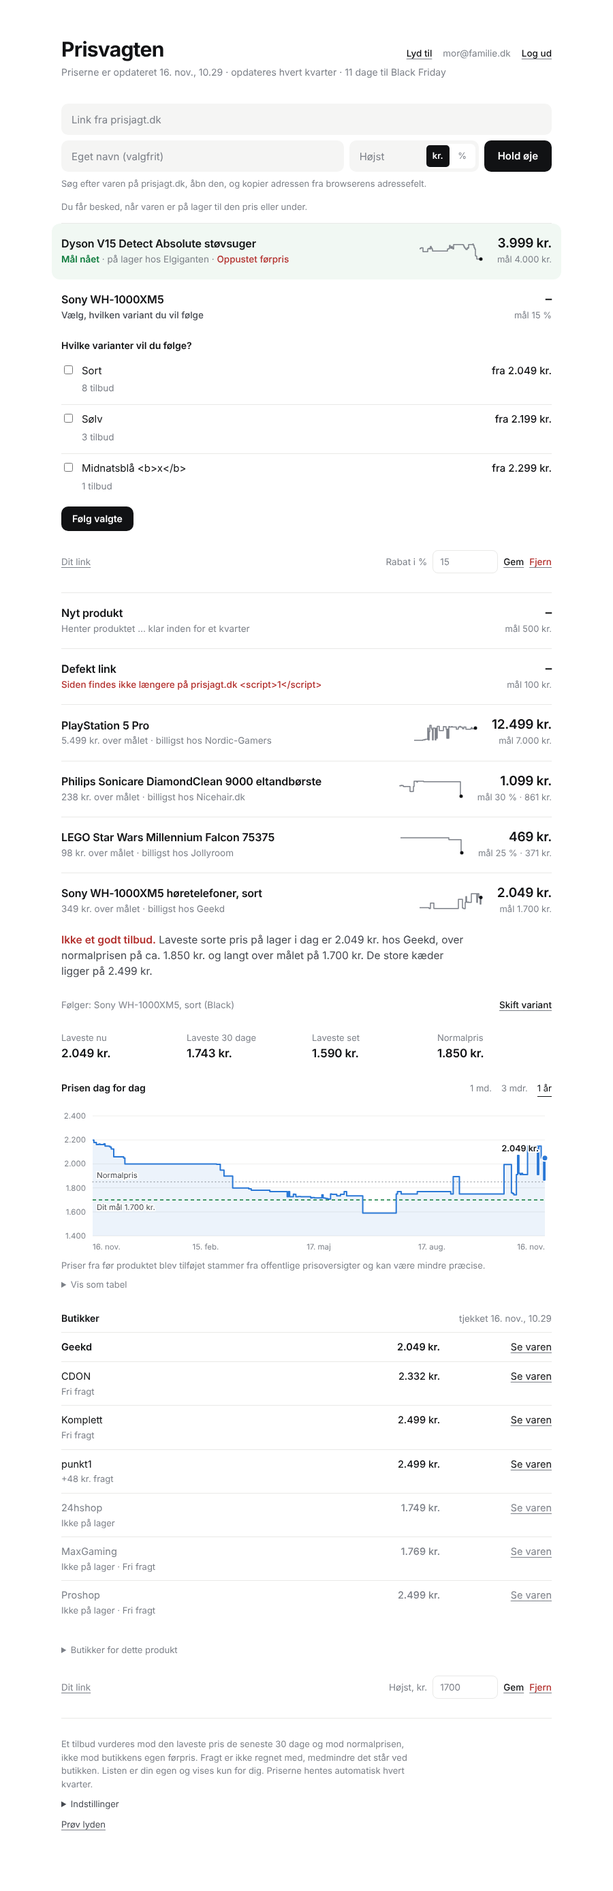
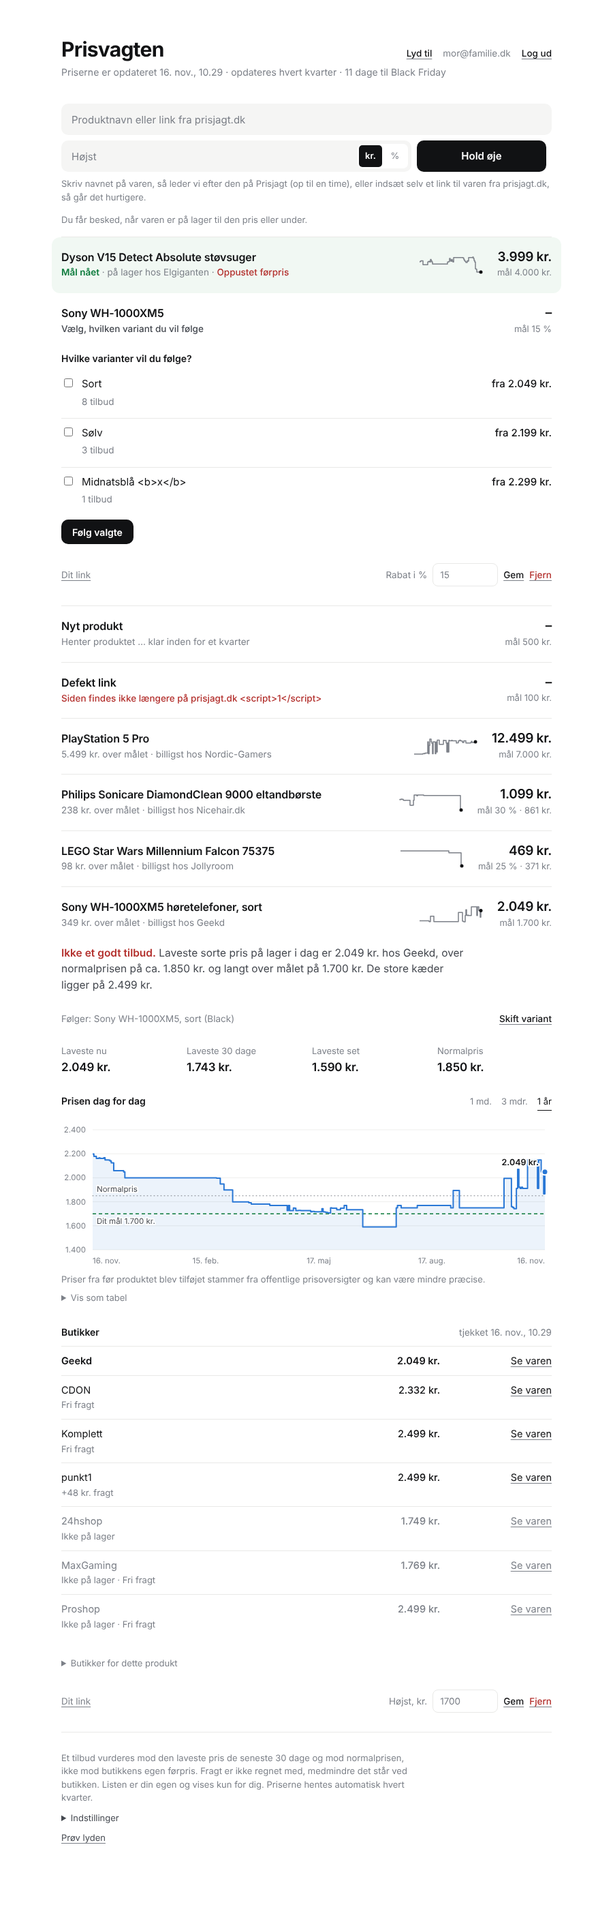
Add products by name: resolver functions, name-only rows, job skip
Database: products may be added without source_url (name must not be blank).
resolver_secret + resolver_list/set/fail (SECURITY DEFINER, token in the
x-resolver-token request header) let an external assistant, holding only the
publishable key, find and write back prisjagt.dk links. A final select shows
the token once.

Job: tests confirm and guard that name-only products are never fetched or
retried.

Web: one field for name or link; name-only rows show a Prisjagt search link
and a paste-link form. Tests extended; empty-config test now serves its own
config.js.

Claude-Session: https://claude.ai/code/session_01RPyEG2VBTuvCsPG9JbAUsy

diff --git a/web/test.js b/web/test.js
@@ -52,7 +52,11 @@ const FAKE = `
           rows.push(r); return resolve({ data: null, error: null });
         }
         if (q.op === "update") {
-          rows.filter(match).forEach(function (r) { Object.keys(q.payload).forEach(function (k) { if (JOB.indexOf(k) < 0) r[k] = clone(q.payload[k]); }); });
+          rows.filter(match).forEach(function (r) {
+            var newLink = "source_url" in q.payload && q.payload.source_url !== r.source_url;
+            Object.keys(q.payload).forEach(function (k) { if (JOB.indexOf(k) < 0) r[k] = clone(q.payload[k]); });
+            if (newLink) { r.status = "pending"; r.check_note = null; }   // what products_guard does on a new link
+          });
           return resolve({ data: null, error: null });
         }
         if (q.op === "upsert") {
@@ -108,7 +112,8 @@ async function open(opts = {}) {
   page.on("console", m => { if (m.type() === "error" && !/Failed to load resource/.test(m.text())) pageErrors.push(opts.label + " console: " + m.text()); });
   await page.route(/cdn\.jsdelivr\.net/, r => r.fulfill({ contentType: "text/javascript", body: "/* test: client is injected */" }));
   await page.route(/fonts\.(googleapis|gstatic)\.com/, r => r.fulfill({ contentType: "text/css", body: "" }));
-  if (opts.config !== false) await page.route(/\/config\.js$/, r => r.fulfill({ contentType: "text/javascript", body: 'window.PV_CONFIG={supabaseUrl:"https://x.supabase.test",supabaseAnonKey:"anon"};' }));
+  // config.js in the repo holds the real project's values, so both cases are served from the test, never from the file.
+  await page.route(/\/config\.js$/, r => r.fulfill({ contentType: "text/javascript", body: opts.config === false ? "window.PV_CONFIG={supabaseUrl:\"\",supabaseAnonKey:\"\"};" : 'window.PV_CONFIG={supabaseUrl:"https://x.supabase.test",supabaseAnonKey:"anon"};' }));
   const init = { session: opts.session === false ? null : { user: { id: "u1", email: "mor@familie.dk" } }, products: opts.products || [], profiles: opts.profiles || [] };
   await page.addInitScript("window.__INIT = " + JSON.stringify(init) + ";");
   if (opts.fake !== false) await page.addInitScript(FAKE);
@@ -232,14 +237,14 @@ let base;
   {
     const p = await open({ products: [], label: "add" });
     await p.waitForSelector("#addForm:not([hidden])");
-    check("add: empty list text and how-to line", /Ingen produkter endnu/.test(await p.textContent("#list")) && /Søg efter varen på prisjagt\.dk/.test(await p.textContent("#fHelp")));
-    for (const bad of ["", "tekst", "http://prisjagt.dk/p/1", "https://example.com/prisjagt.dk/p/1", "https://prisjagt.dk.evil.com/p/1", "https://prisjagt.dk/", "javascript:alert(1)"]) {
-      await p.fill("#fUrl", bad); await p.fill("#fVal", "1000"); await p.evaluate(() => document.getElementById("addForm").requestSubmit());
+    check("add: empty list text and how-to line", /Ingen produkter endnu/.test(await p.textContent("#list")) && /Skriv navnet på varen/.test(await p.textContent("#fHelp")) && /indsæt selv et link/.test(await p.textContent("#fHelp")) && (await p.getAttribute("#fMain", "placeholder")) === "Produktnavn eller link fra prisjagt.dk" && (await p.locator("#fName").count()) === 0);
+    for (const bad of ["", "http://prisjagt.dk/p/1", "https://example.com/prisjagt.dk/p/1", "https://prisjagt.dk.evil.com/p/1", "https://prisjagt.dk/", "javascript:alert(1)", "www.example.com/x", "prisjagt.dk.evil.com/p/1"]) {
+      await p.fill("#fMain", bad); await p.fill("#fVal", "1000"); await p.evaluate(() => document.getElementById("addForm").requestSubmit());
       const vis = await p.isVisible("#fMsg");
       if (!vis || (await ops(p)).length) { check("add: rejects '" + bad + "'", false, "msg visible=" + vis); }
     }
     check("add: bad URLs rejected, no insert", (await ops(p)).length === 0 && /prisjagt\.dk/.test(await p.textContent("#fMsg")));
-    await p.fill("#fUrl", "https://www.prisjagt.dk/produkt/sony-wh-1000xm5-p123?x=1"); await p.fill("#fVal", "0");
+    await p.fill("#fMain", "https://www.prisjagt.dk/produkt/sony-wh-1000xm5-p123?x=1"); await p.fill("#fVal", "0");
     await p.evaluate(() => document.getElementById("addForm").requestSubmit());
     check("add: zero goal rejected", (await ops(p)).length === 0 && /pris/.test(await p.textContent("#fMsg")));
     await p.fill("#fVal", "1500"); await p.click("#fSubmit");
@@ -249,16 +254,71 @@ let base;
       o.table === "products" && o.op === "insert" && JSON.stringify(o.payload) === JSON.stringify({ name: "Nyt produkt", source_url: "https://prisjagt.dk/produkt/sony-wh-1000xm5-p123?x=1", target_type: "price", target_value: 1500, active: true }), JSON.stringify(o.payload));
     await p.waitForSelector('.item[data-status="pending"]');
     check("add: new row appears as pending", true);
-    await p.fill("#fUrl", "https://prisjagt.dk/produkt/lego-p9"); await p.fill("#fName", "LEGO Falcon"); await p.click(".unit label:has(#fTypePct)"); await p.fill("#fVal", "20"); await p.click("#fSubmit");
+    await p.fill("#fMain", "https://prisjagt.dk/product.php?p=555"); await p.click(".unit label:has(#fTypePct)"); await p.fill("#fVal", "20"); await p.click("#fSubmit");
     await p.waitForFunction(() => window.__db.writes().length === 2);
     o = (await ops(p))[1];
-    check("add: own name and % goal", o.payload.name === "LEGO Falcon" && o.payload.target_type === "pct" && o.payload.target_value === 20, JSON.stringify(o.payload));
-    await p.fill("#fUrl", "https://prisjagt.dk/produkt/x"); await p.fill("#fVal", "99"); await p.evaluate(() => document.getElementById("addForm").requestSubmit());
-    check("add: % above 95 rejected", (await ops(p)).length === 2 && /95/.test(await p.textContent("#fMsg")));
+    check("add: link still works with % goal (placeholder name, source_url)", JSON.stringify(o.payload) === JSON.stringify({ name: "Nyt produkt", source_url: "https://prisjagt.dk/product.php?p=555", target_type: "pct", target_value: 20, active: true }), JSON.stringify(o.payload));
+    check("add: field is cleared after saving", (await p.inputValue("#fMain")) === "" && (await p.inputValue("#fVal")) === "");
+    // by name: no source_url
+    for (const bad of ["a", "x".repeat(141)]) {
+      await p.fill("#fMain", bad); await p.fill("#fVal", "500"); await p.evaluate(() => document.getElementById("addForm").requestSubmit());
+      check("add: name of " + bad.length + " characters rejected", (await ops(p)).length === 2 && /2 og 140/.test(await p.textContent("#fMsg")) && await p.isVisible("#fMsg"));
+    }
+    await p.click(".unit label:has(#fTypePrice)");
+    await p.fill("#fMain", "  Sony   WH-1000XM5 sort "); await p.fill("#fVal", "1700"); await p.click("#fSubmit");
+    await p.waitForFunction(() => window.__db.writes().length === 3);
+    o = (await ops(p))[2];
+    check("add: name only -> {name, target_type, target_value} without source_url", JSON.stringify(o.payload) === JSON.stringify({ name: "Sony WH-1000XM5 sort", target_type: "price", target_value: 1700 }), JSON.stringify(o.payload));
+    await p.waitForFunction(() => /Finder produktet … det kan tage op til en time\./.test(document.getElementById("list").textContent));
+    check("add: name-only row shows 'Finder produktet …'", true);
+    await p.fill("#fMain", "https://prisjagt.dk/produkt/x"); await p.fill("#fVal", "99"); await p.click(".unit label:has(#fTypePct)"); await p.evaluate(() => document.getElementById("addForm").requestSubmit());
+    check("add: % above 95 rejected", (await ops(p)).length === 3 && /95/.test(await p.textContent("#fMsg")));
     await p.evaluate(() => { window.__db.deny = true; });
     await p.fill("#fVal", "20"); await p.click("#fSubmit");
     await p.waitForSelector("#readonly:not([hidden])");
     check("add: rejected write (not on allow-list) shows the notice", /ikke adgang/.test(await p.textContent("#readonly")) && !(await p.isVisible("#addForm")));
+    await p.context().close();
+  }
+
+  // 5b. rows without a link (added by name)
+  {
+    const nameRow = { id: "n1", user_id: "u1", name: 'Sony <b>WH</b> & "1000" æøå', source_url: null, target_type: "price", target_value: 1500, status: "pending", created_at: new Date().toISOString(), tracked_variants: null, active: true };
+    const nameErr = { id: "n2", user_id: "u1", name: "Dyson V15 + tilbehør", source_url: null, target_type: "pct", target_value: 20, status: "error", check_note: "Fandt ikke produktet <script>1</script>", created_at: new Date().toISOString(), tracked_variants: null, active: true };
+    const p = await open({ products: [nameRow, nameErr], width: 400, label: "name-only" });
+    await p.waitForSelector(".item");
+    const pend = p.locator('.item[data-status="pending"]'), er = p.locator('.item[data-status="error"]');
+    check("name-only pending: head text", /Finder produktet … det kan tage op til en time\./.test(await pend.locator(".head").textContent()) && !/klar inden for et kvarter/.test(await pend.textContent()));
+    await pend.locator(".head").click(); await er.locator(".head").click();
+    const pt = await pend.locator(".body").textContent();
+    check("name-only pending: 'Har du travlt? Find det selv:' and paste form", /Har du travlt\? Find det selv:/.test(pt) && /Indsæt linket her/.test(pt) && await pend.locator("[data-fixurl]").isVisible());
+    const lk = pend.locator(".body a");
+    check("name-only pending: 'Søg på Prisjagt' link with encoded name, new tab, noopener",
+      (await lk.count()) === 1 && (await lk.textContent()) === "Søg på Prisjagt" && (await lk.getAttribute("href")) === "https://prisjagt.dk/search?search=" + encodeURIComponent(nameRow.name) && (await lk.getAttribute("target")) === "_blank" && /noopener/.test(await lk.getAttribute("rel")), await lk.getAttribute("href"));
+    check("name-only: name is escaped (no injected markup)", (await pend.locator("h2 b").count()) === 0 && (await pend.locator("h2").textContent()) === nameRow.name);
+    const et = await er.locator(".body").textContent();
+    const elk = er.locator(".body a");
+    check("name-only error: check_note (escaped), search link, paste form, remove",
+      /Fandt ikke produktet <script>1<\/script>/.test(et) && (await er.locator("script").count()) === 0 && (await elk.count()) === 1 && (await elk.getAttribute("href")) === "https://prisjagt.dk/search?search=" + encodeURIComponent(nameErr.name) &&
+      await er.locator("[data-fixurl]").isVisible() && await er.locator('[data-act="del"]').isVisible() && /Indsæt linket her/.test(et), et);
+    const w = await p.evaluate(() => ({ sw: document.documentElement.scrollWidth, cw: document.documentElement.clientWidth }));
+    check("name-only rows: no horizontal overflow at 400 px", w.sw <= w.cw, JSON.stringify(w));
+    // invalid links: Danish error, nothing written
+    for (const bad of ["tekst", "https://example.com/product.php?p=1", "http://prisjagt.dk/product.php?p=1", "https://prisjagt.dk.evil.com/x"]) {
+      await p.fill("#u-n1", bad); await p.click('[data-fixurl="n1"] button[type=submit]');
+      const m = await p.textContent('[data-rowmsg="n1"]');
+      if (!/Linket skal være en adresse på https:\/\/prisjagt\.dk\//.test(m) || (await ops(p)).length) check("name-only: rejects '" + bad + "'", false, m);
+    }
+    check("name-only: invalid link -> Danish error, no write", (await ops(p)).length === 0 && /Linket skal være en adresse på https:\/\/prisjagt\.dk\//.test(await p.textContent('[data-rowmsg="n1"]')));
+    await p.fill("#u-n1", " https://www.prisjagt.dk/product.php?p=42 "); await p.click('[data-fixurl="n1"] button[type=submit]');
+    await p.waitForFunction(() => window.__db.writes().length === 1);
+    let o = (await ops(p))[0];
+    check("name-only: valid link writes source_url only", o.table === "products" && o.op === "update" && JSON.stringify(o.payload) === '{"source_url":"https://prisjagt.dk/product.php?p=42"}' && o.filters[0][1] === "n1", JSON.stringify(o));
+    await p.waitForFunction(() => /Henter produktet … klar inden for et kvarter/.test(document.querySelector('.item[data-status="pending"] .head').textContent));
+    check("name-only: row then shows the normal 'Henter produktet …'", /Dit link/.test(await p.locator('.item[data-status="pending"]').textContent()) || true);
+    await p.fill("#u-n2", "https://prisjagt.dk/product.php?p=77"); await p.click('[data-fixurl="n2"] button[type=submit]');
+    await p.waitForFunction(() => window.__db.writes().length === 2);
+    o = (await ops(p))[1];
+    check("name-only error: pasted link writes source_url and the row goes pending", o.payload.source_url === "https://prisjagt.dk/product.php?p=77" && o.filters[0][1] === "n2" && (await p.locator('.item[data-status="pending"]').count()) === 2, JSON.stringify(o));
     await p.context().close();
   }
 

diff --git a/web/app.js b/web/app.js
@@ -255,7 +255,7 @@
   function headHtml(p) {
     var b = bestOf(p), t = targetKr(p), os = offersOf(p), st;
     var anyStock = os.some(function (o) { return o.inStock !== false; });
-    if (p.status === "pending") st = "Henter produktet … klar inden for et kvarter";
+    if (p.status === "pending") st = p.url ? "Henter produktet … klar inden for et kvarter" : "Finder produktet … det kan tage op til en time.";
     else if (p.status === "error") st = '<span class="warn">' + esc(p.checkNote || "Produktet kunne ikke hentes") + '</span>';
     else if (awaitingFetch(p)) st = "Henter priser for den valgte variant …";
     else if (p.status === "choose") st = '<span class="out">Vælg, hvilken variant du vil følge</span>';
@@ -305,12 +305,25 @@
     return html + '</div>';
   }
 
+  // Name-only product: link to prisjagt.dk's own search (opens in a new tab) and a form to paste the link found there.
+  function findHtml(p, afterError) {
+    var id = p._id, a = '<a href="https://prisjagt.dk/search?search=' + esc(encodeURIComponent(p.name)) + '" target="_blank" rel="noopener noreferrer">Søg på Prisjagt</a>';
+    var f = state.canWrite ? '<form class="edit" data-fixurl="' + esc(id) + '" novalidate><label for="u-' + esc(id) + '">Indsæt linket her</label>' +
+      '<input class="wide" type="url" id="u-' + esc(id) + '" maxlength="500" required placeholder="https://prisjagt.dk/…">' +
+      '<button class="link" type="submit">Gem linket</button><span class="meta" data-rowmsg="' + esc(id) + '">' + esc(state.rowMsg[id] || "") + '</span></form>' : "";
+    return '<p class="verdict">' + (afterError ? "Find det selv" : "Har du travlt? Find det selv") + ': ' + a + '</p>' + f;
+  }
+
   function bodyHtml(p) {
     var id = p._id;
+    if (p.status === "pending" && !p.url)
+      return '<p class="verdict">Finder produktet … det kan tage op til en time.</p>' + findHtml(p) + footHtml(p);
     if (p.status === "pending")
       return '<p class="verdict">Henter produktet fra prisjagt.dk. Det er klar inden for et kvarter, og så kan du vælge variant.</p>' + footHtml(p);
+    if (p.status === "error" && !p.url)
+      return '<p class="verdict poor"><b>Produktet blev ikke fundet.</b> ' + esc(p.checkNote || "Find det selv på Prisjagt, og indsæt linket her.") + '</p>' + findHtml(p, true) + footHtml(p);
     if (p.status === "error") {
-      var f = state.canWrite ? '<form class="edit" data-fixurl="' + esc(id) + '"><label class="vh" for="u-' + esc(id) + '">Link fra prisjagt.dk</label>' +
+      var f = state.canWrite ? '<form class="edit" data-fixurl="' + esc(id) + '" novalidate><label class="vh" for="u-' + esc(id) + '">Link fra prisjagt.dk</label>' +
         '<input class="wide" type="url" id="u-' + esc(id) + '" maxlength="500" required value="' + esc(p.url || "") + '" placeholder="Link fra prisjagt.dk">' +
         '<button class="link" type="submit">Gem linket og prøv igen</button><span class="meta" data-rowmsg="' + esc(id) + '">' + esc(state.rowMsg[id] || "") + '</span></form>' : "";
       return '<p class="verdict poor"><b>Produktet kunne ikke hentes.</b> ' + esc(p.checkNote || "Tjek, at linket er en produktside på prisjagt.dk.") + '</p>' + f + footHtml(p);
@@ -403,7 +416,7 @@
     });
     if (!ps.length) {
       list.innerHTML = '<div class="empty"><b>Ingen produkter endnu</b>' +
-        (state.canWrite ? "Indsæt et link fra prisjagt.dk ovenfor. Så henter vi produktet, du vælger variant, og derefter ser du laveste pris, butikkerne og prisen dag for dag."
+        (state.canWrite ? "Skriv navnet på en vare eller indsæt et link fra prisjagt.dk ovenfor. Så finder og henter vi produktet, du vælger variant, og derefter ser du laveste pris, butikkerne og prisen dag for dag."
           : "Når der er tilføjet produkter, ser du laveste pris, butikker og prisudvikling her.") + '</div>';
       return;
     }
@@ -636,9 +649,11 @@
       setRowMsg(fid, "Gemmer …");
       sb.from("products").update({ source_url: nu }).eq("id", fid).then(function (r) {
         if (r && r.error) { setRowMsg(fid, "Kunne ikke gemme lige nu. Prøv igen om lidt."); onWriteError(r.error); return; }
-        var p = prod(fid); if (p) p.url = nu;
-        setRowMsg(fid, "Gemt. Produktet hentes igen ved næste kørsel, inden for et kvarter.");
-        fetchProducts();
+        // the database starts the product over on a new link (status 'pending'); show that straight away
+        var p = prod(fid); if (p) { p.url = nu; p.status = "pending"; p.checkNote = ""; }
+        state.rowMsg[fid] = "";
+        if (document.activeElement && document.activeElement.blur) document.activeElement.blur();
+        render(); fetchProducts();
       }, function () { setRowMsg(fid, "Kunne ikke gemme lige nu. Prøv igen om lidt."); });
       return;
     }
@@ -665,25 +680,35 @@
       ? "Rabatten regnes fra normalprisen, som findes ved første hentning, ikke fra butikkens egen førpris."
       : "Du får besked, når varen er på lager til den pris eller under.";
   }
+  // A value that looks like an address (scheme, www., or a single word with a path) is a link; anything else is a name.
+  function looksLikeLink(t) { return /^[a-z][a-z0-9+.-]*:\/\//i.test(t) || /^(javascript|data|vbscript|file|mailto):/i.test(t) || /^www\./i.test(t) || /^\S+\.\S+\/\S*$/.test(t) || /prisjagt\.dk/i.test(t) && !/\s/.test(t); }
   $("fTypePrice").addEventListener("change", syncType); $("fTypePct").addEventListener("change", syncType);
   $("addForm").addEventListener("submit", function (ev) {
     ev.preventDefault();
     var msg = $("fMsg"); msg.hidden = true;
     var fail = function (t) { msg.textContent = t; msg.hidden = false; };
-    var url = parsePrisjagt($("fUrl").value), v = Number($("fVal").value), pct = $("fTypePct").checked;
-    var name = $("fName").value.trim().slice(0, 140) || PLACEHOLDER;
-    if (!url) { fail("Linket skal være en produktside på https://prisjagt.dk/ . Søg efter varen på prisjagt.dk, åbn den, og kopier adressen."); return; }
+    var raw = $("fMain").value.trim().replace(/\s+/g, " "), v = Number($("fVal").value), pct = $("fTypePct").checked, url = null, name = null;
+    if (!raw) { fail("Skriv navnet på varen, eller indsæt et link fra prisjagt.dk."); return; }
+    if (looksLikeLink(raw)) {
+      url = parsePrisjagt(raw);
+      if (!url) { fail("Linket skal være en produktside på https://prisjagt.dk/ . Søg efter varen på prisjagt.dk, åbn den, og kopier adressen."); return; }
+    } else {
+      if (raw.length < 2 || raw.length > 140) { fail("Navnet skal være mellem 2 og 140 tegn."); return; }
+      name = raw;
+    }
     if (!(v > 0) || (pct && v > 95)) { fail(pct ? "Skriv en rabat mellem 1 og 95 %." : "Skriv en pris i hele kroner."); return; }
     if (!sb) return;
     var btn = $("fSubmit"); btn.disabled = true;
-    sb.from("products").insert({ name: name, source_url: url, target_type: pct ? "pct" : "price", target_value: v, active: true }).then(function (r) {
+    var row = url ? { name: PLACEHOLDER, source_url: url, target_type: pct ? "pct" : "price", target_value: v, active: true }
+      : { name: name, target_type: pct ? "pct" : "price", target_value: v };
+    sb.from("products").insert(row).then(function (r) {
       btn.disabled = false;
       if (r && r.error) {
         if (isDenied(r.error)) { onWriteError(r.error); return; }
-        fail(r.error.code === "23514" ? "Databasen afviste linket eller målet. Tjek, at linket er fra prisjagt.dk." : "Kunne ikke gemme lige nu. Prøv igen om lidt.");
+        fail(r.error.code === "23514" ? (url ? "Databasen afviste linket eller målet. Tjek, at linket er fra prisjagt.dk." : "Databasen afviste navnet eller målet. Tjek dem, og prøv igen.") : "Kunne ikke gemme lige nu. Prøv igen om lidt.");
         return;
       }
-      $("fName").value = ""; $("fUrl").value = ""; $("fVal").value = "";
+      $("fMain").value = ""; $("fVal").value = "";
       fetchProducts();
     }, function () { btn.disabled = false; fail("Kunne ikke gemme lige nu. Prøv igen om lidt."); });
   });

diff --git a/job/test.js b/job/test.js
@@ -252,7 +252,7 @@ function makeFake(db) {
         let rows = t.slice();
         if (mm[1] === 'products') {
           assert.strictEqual(q.get('active'), 'eq.true'); assert.strictEqual(q.get('source_url'), 'not.is.null');
-          rows = rows.filter((r) => r.active !== false && r.source_url);
+          rows = rows.filter((r) => r.active !== false && (r.source_url || db.ignoreLinkFilter));   // db.ignoreLinkFilter: a server that wrongly returns name-only rows
         }
         if (q.get('user_id') && /^in\.\((.*)\)$/.test(q.get('user_id'))) { const ids = /^in\.\((.*)\)$/.exec(q.get('user_id'))[1].split(','); rows = rows.filter((r) => ids.indexOf(r.user_id) !== -1); }
         if (q.get('email') && /^eq\./.test(q.get('email'))) rows = rows.filter((r) => r.email === q.get('email').slice(3));
@@ -461,6 +461,25 @@ test('job never writes user-owned columns (id, user_id, name, source_url, target
   const db = newDb(); db.products.push(product('Z', 'u1', 'sony'));
   await R.run(ctxFor(db, { [urlOf('sony')]: pageFor('sony') }));   // the fake asserts this on every PATCH
   assert(db.patches.length === 1 && db.products[0].status === 'choose' && db.products[0].variants.length === 5);
+});
+
+test('name-only products (source_url null) are skipped silently: no fetch, no write, no 6-hour error retry', async () => {
+  for (const wrongServer of [false, true]) {
+    const db = newDb(); db.ignoreLinkFilter = wrongServer;
+    db.products.push(
+      product('N1', 'u1', 'lego', { source_url: null, name: 'Kun et navn' }),
+      product('N2', 'u1', 'lego', { source_url: null, status: 'error', check_note: 'Ikke fundet', last_checked: '2026-11-10T10:00:00Z' }),   // error for > 6 h
+      product('N3', 'u1', 'lego', { source_url: null, status: 'error', check_note: 'Ikke fundet', last_checked: null }),
+      product('L1', 'u1', 'ps5'));
+    const logs = [];
+    const ctx = ctxFor(db, { [urlOf('ps5')]: pageFor('ps5') }, { log: (l) => logs.push(l) });
+    const r = await R.run(ctx);
+    assert.deepStrictEqual(ctx.fetched, [urlOf('ps5')], 'only the product with a link is fetched');
+    assert.deepStrictEqual(db.patches.map((x) => x.id), ['L1']);
+    assert.strictEqual(r.stats.total, 1);
+    assert(db.products.slice(0, 3).every((x) => x.source_url === null) && db.products[1].status === 'error' && db.products[1].check_note === 'Ikke fundet');
+    assert(!logs.some((l) => /Kun et navn|N1|N2|N3/.test(l)), 'nothing logged about them');
+  }
 });
 
 // ---------------------------------------------------------------- live sanity check (opt-in)

diff --git a/web/index.html b/web/index.html
@@ -47,10 +47,8 @@
   <!-- signed in -->
   <section id="appView" hidden>
     <form class="add" id="addForm" autocomplete="off" novalidate>
-      <label class="vh" for="fUrl">Link fra prisjagt.dk</label>
-      <input class="inp url" type="url" id="fUrl" maxlength="500" required placeholder="Link fra prisjagt.dk">
-      <label class="vh" for="fName">Eget navn (valgfrit)</label>
-      <input class="inp name" type="text" id="fName" maxlength="140" placeholder="Eget navn (valgfrit)">
+      <label class="vh" for="fMain">Produktnavn eller link fra prisjagt.dk</label>
+      <input class="inp url" type="text" id="fMain" maxlength="500" required placeholder="Produktnavn eller link fra prisjagt.dk">
       <div class="amount">
         <label class="vh" for="fVal" id="fValLabel">Højeste pris i kroner</label>
         <input class="inp n" type="number" id="fVal" min="1" step="1" required inputmode="numeric" placeholder="Højst">
@@ -62,7 +60,7 @@
       <button class="btn" id="fSubmit" type="submit">Hold øje</button>
     </form>
     <p class="msg" id="fMsg" role="alert" hidden></p>
-    <p class="hint" id="fHelp">Søg efter varen på prisjagt.dk, åbn den, og kopier adressen fra browserens adressefelt.</p>
+    <p class="hint" id="fHelp">Skriv navnet på varen, så leder vi efter den på Prisjagt (op til en time), eller indsæt selv et link til varen fra prisjagt.dk, så går det hurtigere.</p>
     <p class="hint" id="fHint">Du får besked, når varen er på lager til den pris eller under.</p>
     <p class="notice" id="readonly" hidden>Din adresse har ikke adgang til at gemme endnu. Bed ejeren om at tilføje den.</p>
 

diff --git a/job/run.js b/job/run.js
@@ -111,7 +111,11 @@ async function run(ctx) {
   const stats = { total: 0, pending: 0, tracking: 0, choose: 0, error: 0, pages: 0, pageFail: 0, blocked: false, hits: 0, sent: 0, mailSkipped: 0, mailNote: '', written: 0, writeFail: 0, deadline: false };
 
   // 1. load (a failure here means Supabase is unreachable: let it throw)
-  const products = await sb.select('products', 'select=*&active=eq.true&source_url=not.is.null&order=last_checked.asc.nullsfirst&limit=1000');
+  // Products added by name only (source_url null) wait for a link (from the name-lookup assistant or the user):
+  // the query leaves them out, and the filter below keeps them out even if the query is changed. Never fetched,
+  // never counted, never retried (also not by the 6-hour error retry).
+  const products = (await sb.select('products', 'select=*&active=eq.true&source_url=not.is.null&order=last_checked.asc.nullsfirst&limit=1000'))
+    .filter((p) => p.source_url);
   const ownerIds = Array.from(new Set(products.map((p) => p.user_id)));
   const profiles = {};
   for (let i = 0; i < ownerIds.length; i += 50) {

diff --git a/web/styles.css b/web/styles.css
@@ -154,7 +154,6 @@ details.fine summary { margin-top: 0; color: var(--ink2) }
 @media (max-width: 560px) {
   body { padding-block: 28px 64px }
   .add { grid-template-columns: minmax(0, 1fr) auto }
-  .add .name { grid-column: 1 / -1 }
   .head { grid-template-columns: minmax(0, 1fr) auto; gap: 12px }
   .spark { display: none }
   .stats { grid-template-columns: repeat(2, minmax(0, 1fr)) }

diff --git a/docs/SETUP.md b/docs/SETUP.md
@@ -59,8 +59,17 @@ I Supabase: **Project Settings** > **API** (eller *API Keys*). Noter:
 
 Frontenden ligger i `web/` og udgives af workflowet `pages.yml`. Slå Pages til: repoet > **Settings** > **Pages** > *Source*: **GitHub Actions**. Frontenden skal have Project URL og anon-nøglen fra trin 4 (se `web/`).
 
+## Tilføj produkter ved navn (assistenten)
+
+Man kan skrive et produktnavn i stedet for et link. Produktet står så som "Finder produktet …", indtil et link er fundet: enten af brugeren selv ("Søg på Prisjagt" og indsæt linket) eller af navne-assistenten, en separat AI-agent der ikke hører til dette repo.
+
+1. Kør hele `supabase/schema.sql` igen i **SQL Editor** (det er sikkert; der oprettes ikke et nyt token, hvis der allerede er et).
+2. Nederst i resultatet vises en kolonne `resolver_token_copy_this` med en lang tekst. Kopiér den. Den kan også ses senere ved at køre `select token from public.resolver_secret;` i SQL Editor.
+3. Teksten er værdien til hemmeligheden `x-resolver-token`, som navne-assistenten bruger (sendes som HTTP-headeren `x-resolver-token`). Assistenten bruger kun den offentlige anon/publishable-nøgle, aldrig service_role-nøglen. Del ikke tokenet andre steder, og læg det ikke i repoet.
+4. Vil du skifte tokenet: `update public.resolver_secret set token = replace(gen_random_uuid()::text || gen_random_uuid()::text, '-', '');`, og opdatér hemmeligheden hos assistenten.
+
 ## Hverdagen
 
 - Ny person: tilføj e-mailen i `allowed_emails` og send dem linket til siden.
 - Jobbet henter hver produktside højst én gang pr. kørsel, med 1,5 sekunds pause, og forsøger aldrig at omgå en blokering. Svarer Prisjagt med 403/429, springer jobbet resten over i den kørsel, og produktet får en note.
-- Et produkt i fejl-tilstand prøves igen efter 6 timer. Skifter nogen linket, starter produktet forfra.
+- Et produkt i fejl-tilstand prøves igen efter 6 timer (produkter uden link, altså kun et navn, springes over, til der er et link). Skifter nogen linket, starter produktet forfra.
